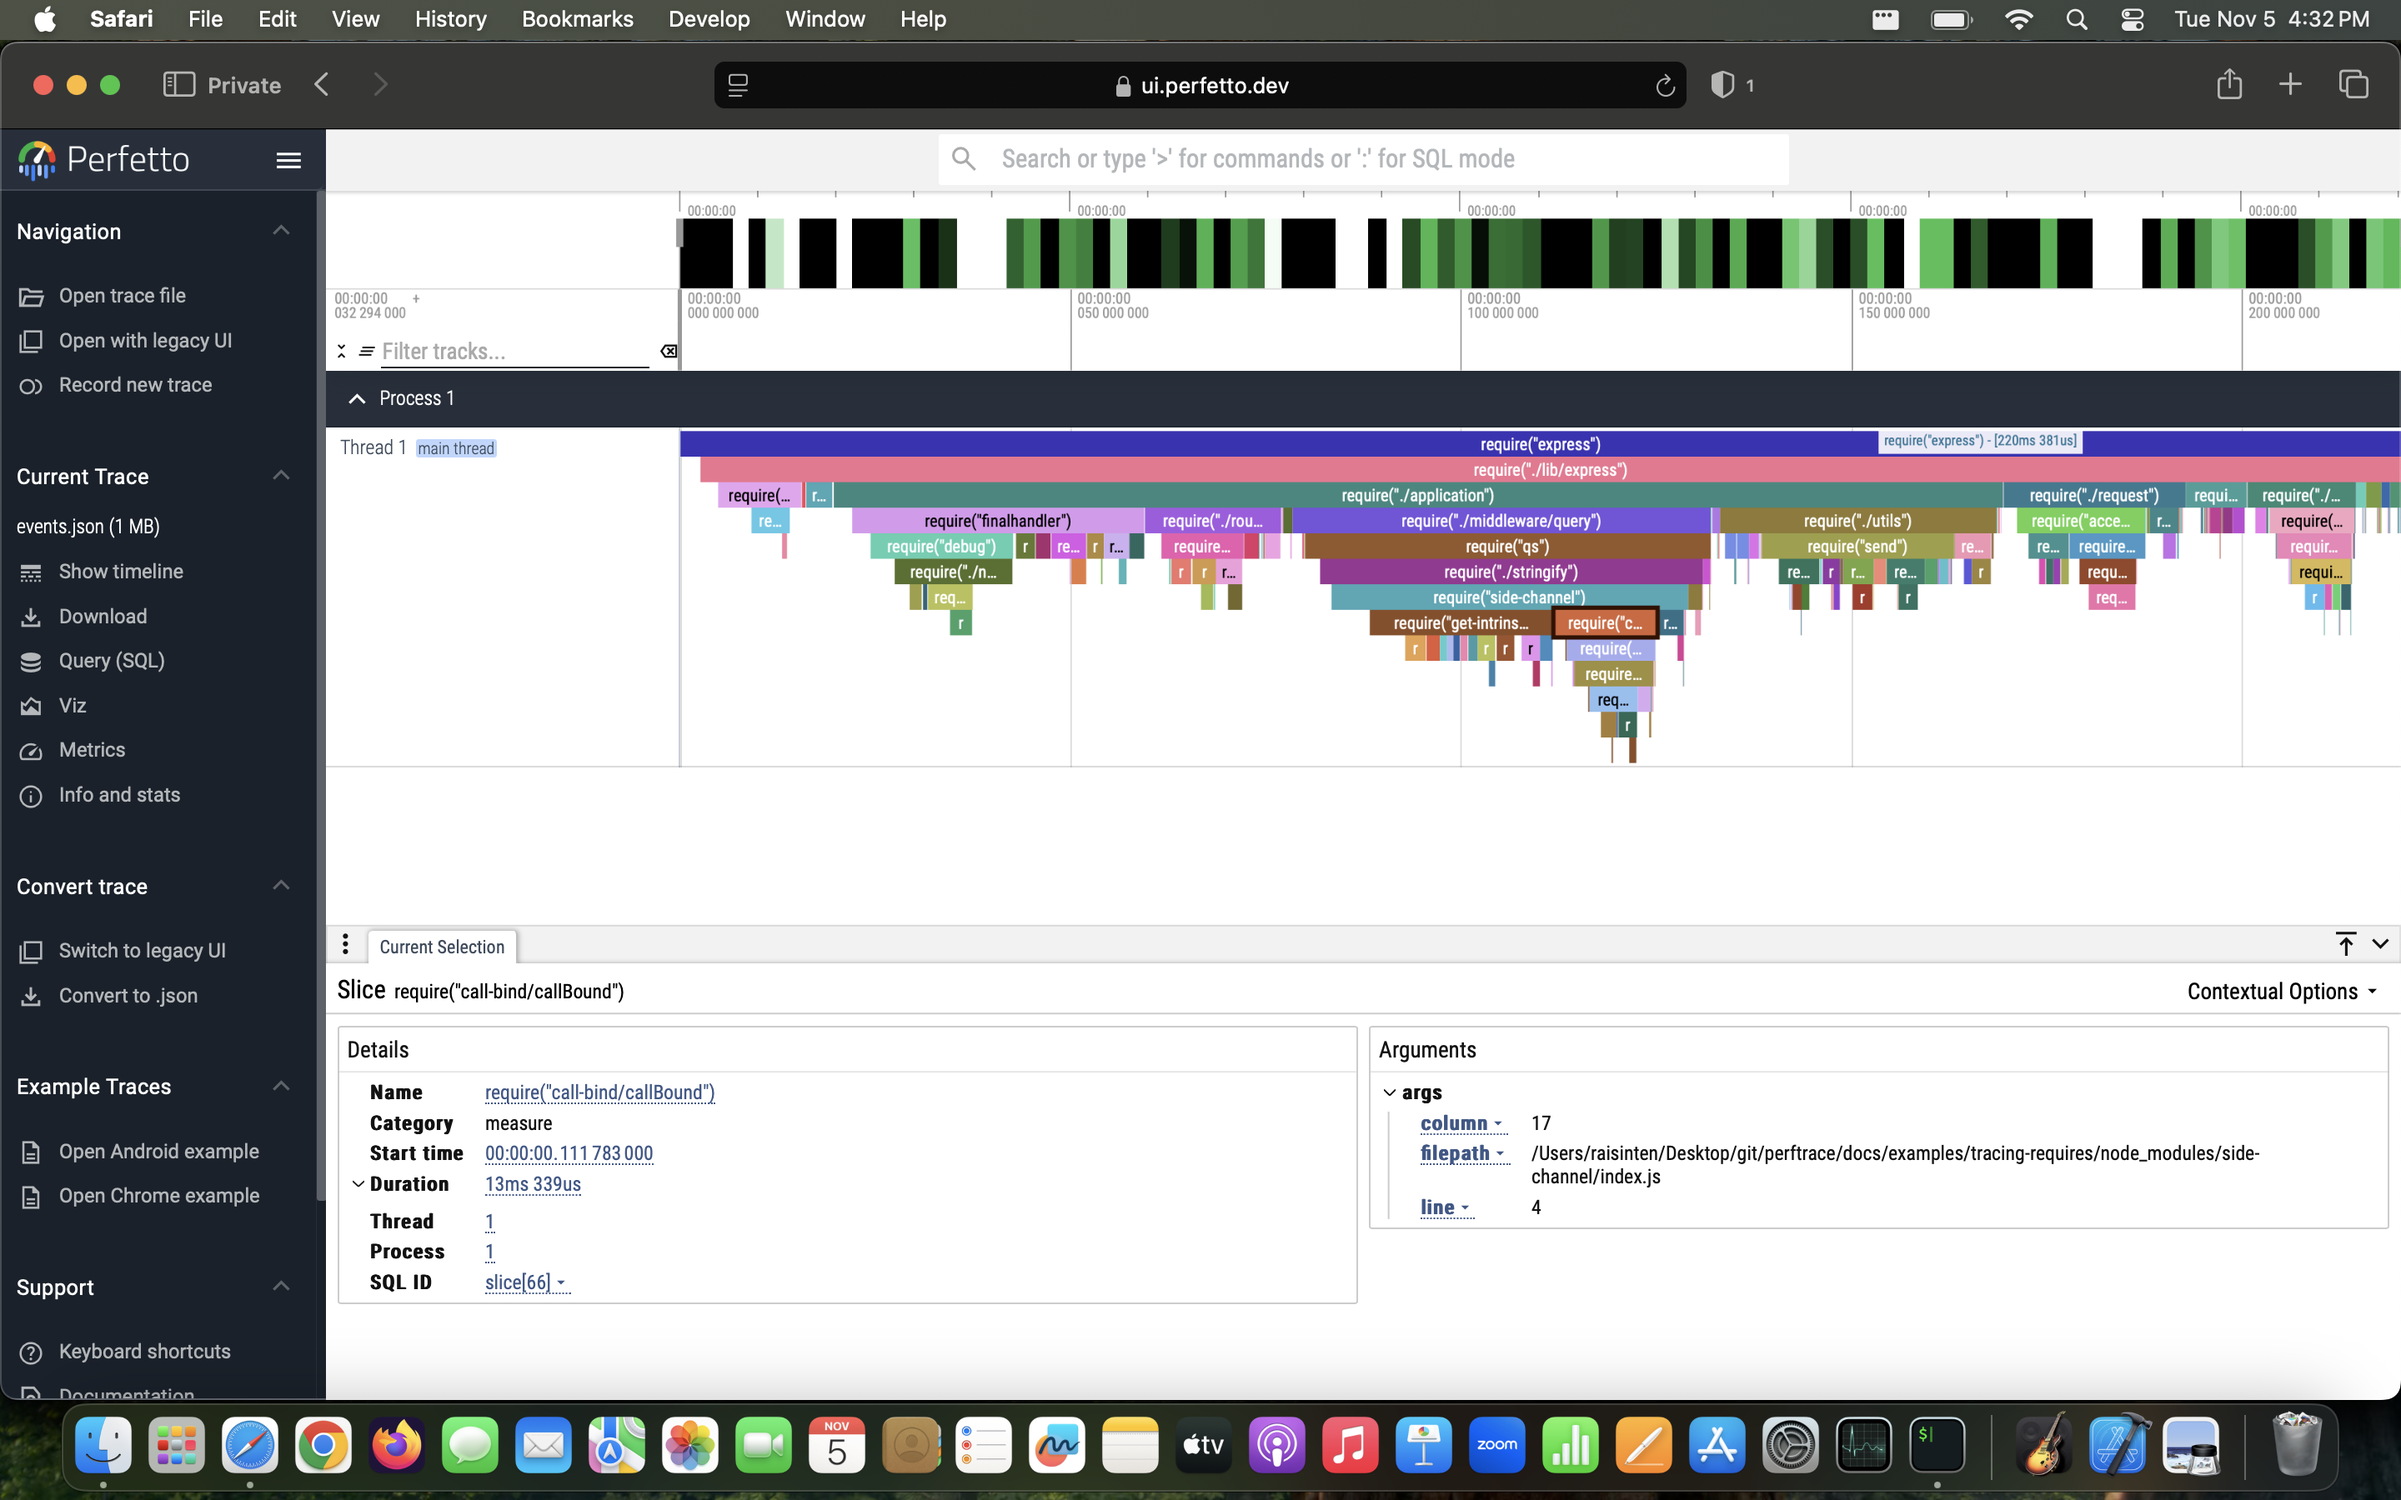
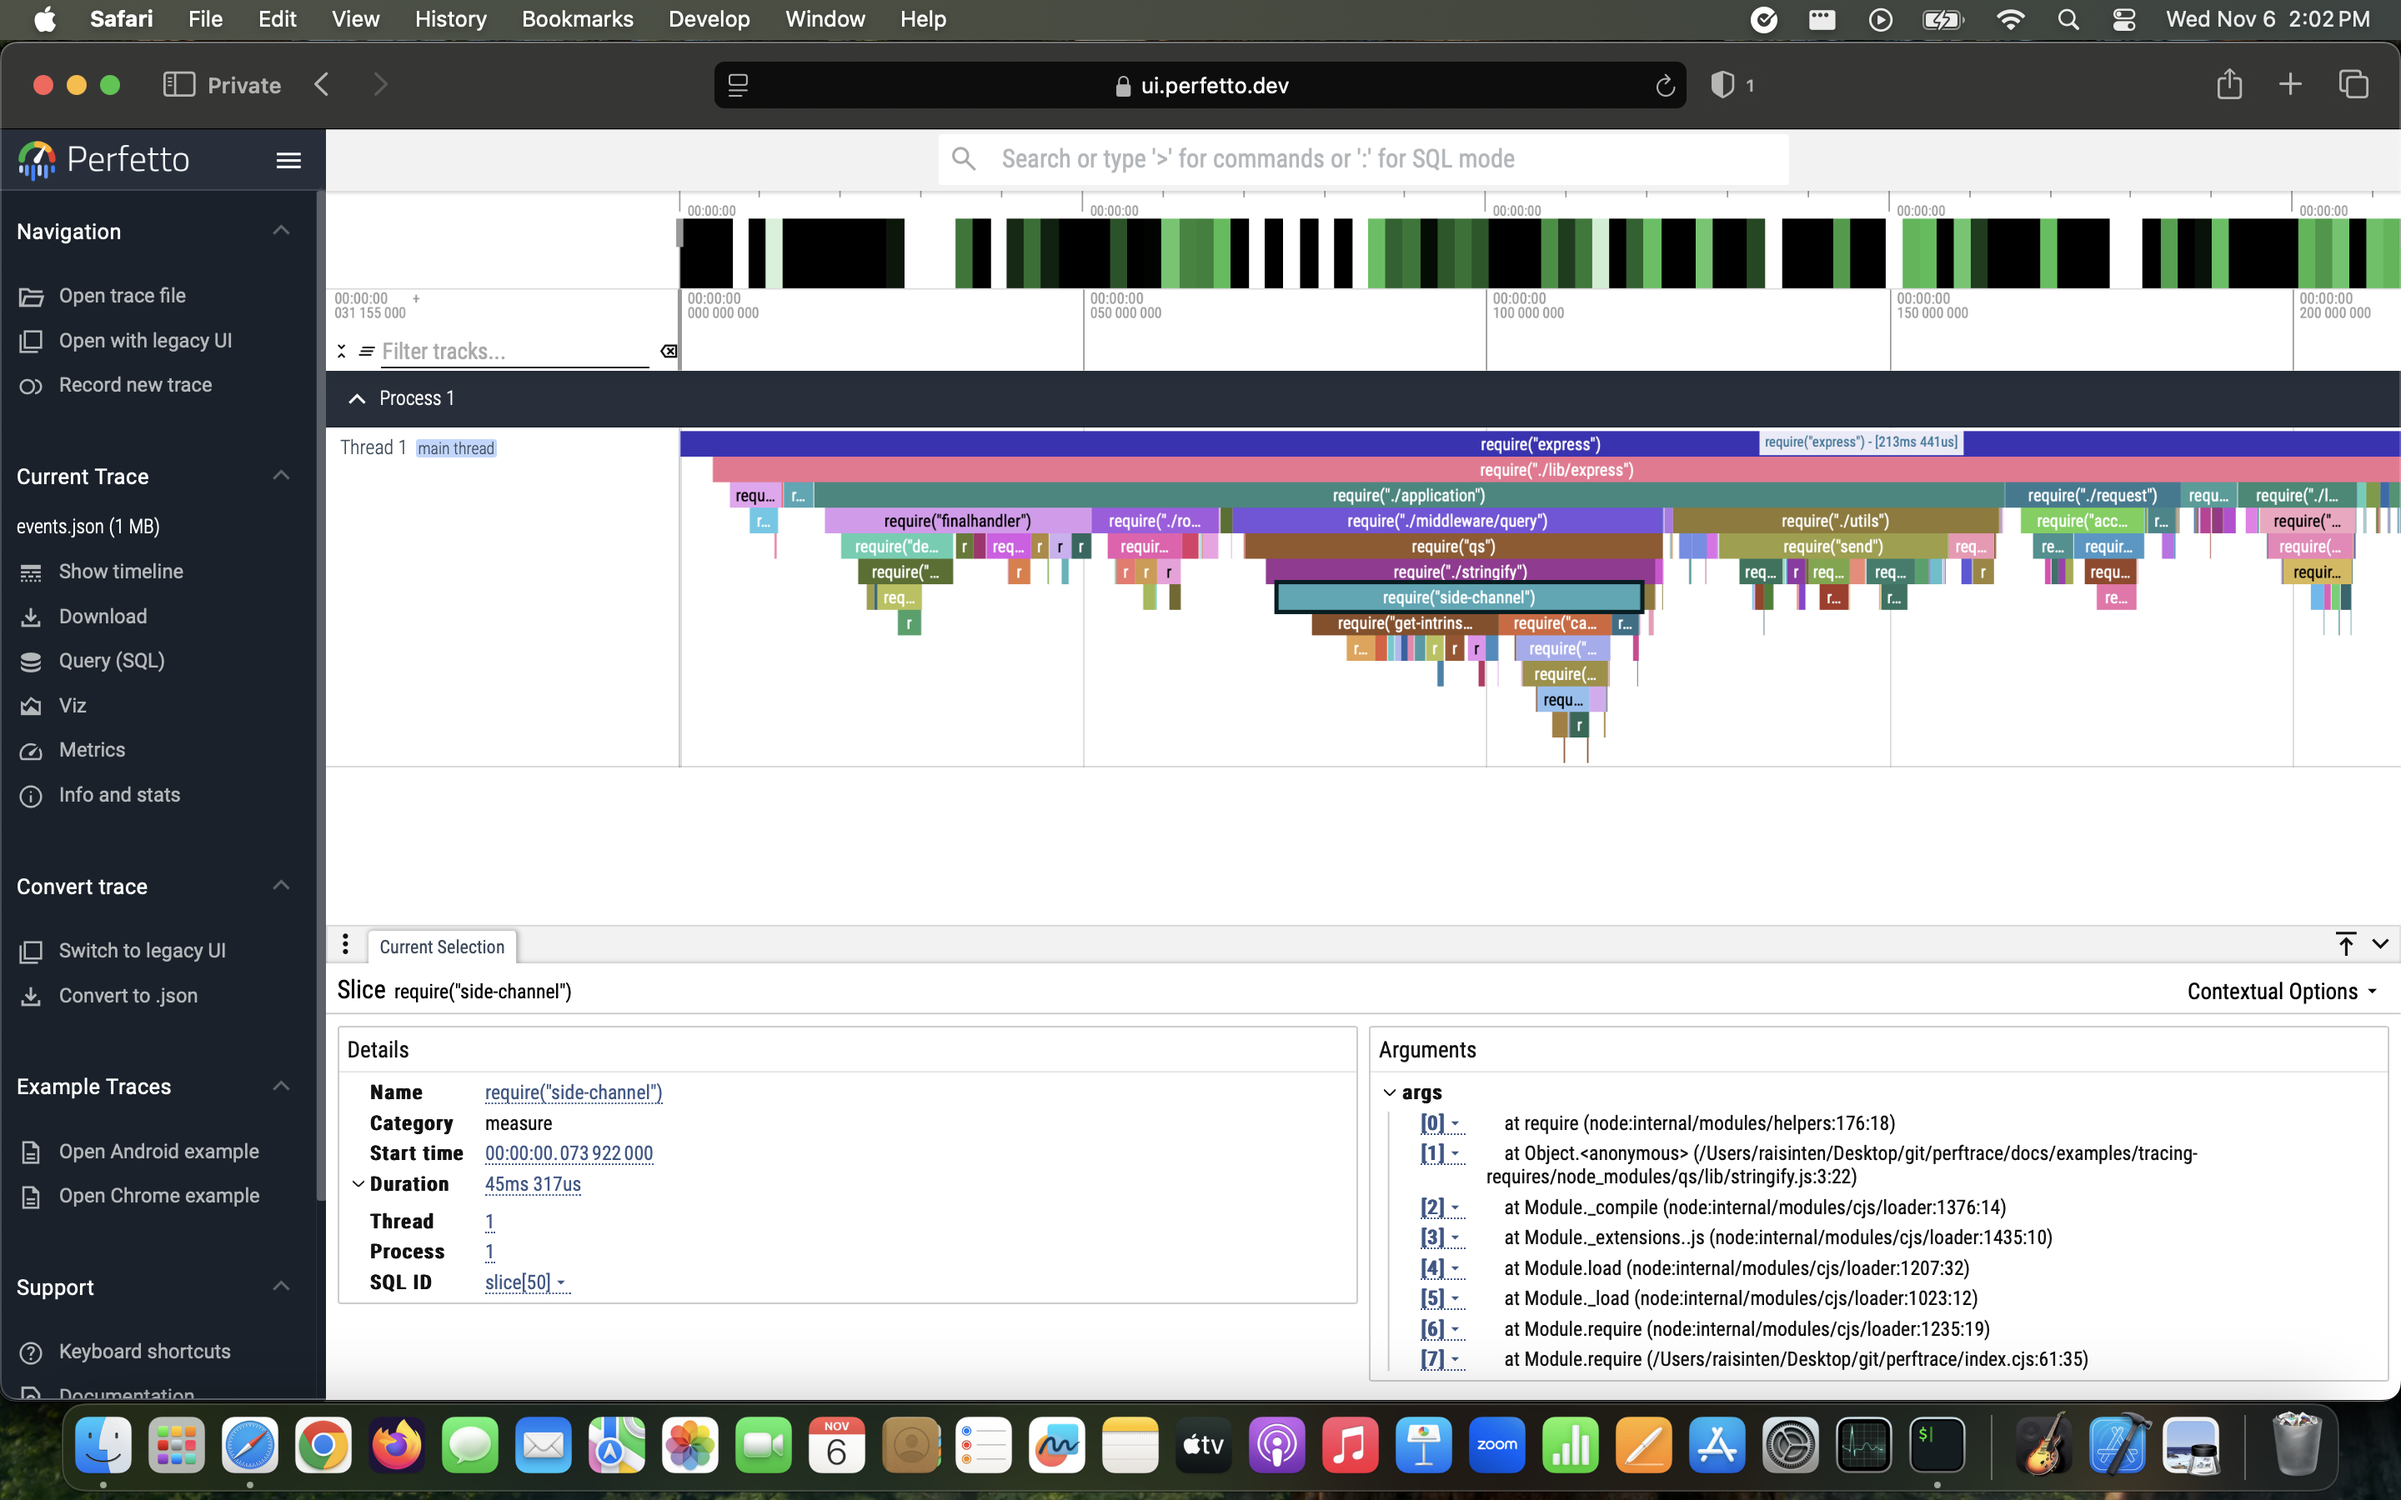
Extract relevant part of stack and make source-tracking optional

diff --git a/docs/examples/tracing-requires/index.js b/docs/examples/tracing-requires/index.js
@@ -9,7 +9,7 @@ process.on("beforeExit", () => {
   writeFileSync("events.json", JSON.stringify(events));
 });
 
-trackRequires(true);
+trackRequires(true, { trackSource: true });
 
 // Express Hello world example
 // Refs: https://expressjs.com/en/starter/hello-world.html

diff --git a/docs/api/README.md b/docs/api/README.md
@@ -35,6 +35,8 @@ Call `traceEvents.getEvents()` to get the PerformanceEntry objects in the [Trace
 ]
 ```
 
-## `trackRequires(bool)` (only available in [CommonJS](https://nodejs.org/api/modules.html#modules-commonjs-modules))
+## `trackRequires(switch, options)` (only available in [CommonJS](https://nodejs.org/api/modules.html#modules-commonjs-modules))
 
-Call `trackRequires(true)` to enable tracking `require()`s and call `trackRequires(false)` to disable tracking `require()`s.
+- `switch` (**bool**) - Call `trackRequires(true)` to enable tracking `require()`s and call `trackRequires(false)` to disable tracking `require()`s.
+- `options` (**object**)
+  - `trackSource` (**bool**) - Call `trackRequires(true, { trackSource: true })` to enable tracking `require()`s and also capture the source locations. This creates a throw-away error object and parses the `stack` property, so it introduces an overhead.

diff --git a/docs/examples/tracing-requires/README.md b/docs/examples/tracing-requires/README.md
@@ -8,7 +8,7 @@ Before the process exits, the `TraceEvents` object is destroyed and the trace ev
 
 https://github.com/RaisinTen/perftrace/blob/7cb1ce34d19ed8816e15094b3ef4fd03bb157c76/docs/examples/tracing-requires/index.js#L6-L10
 
-The `require()` calls can be tracked by passing `true` to `trackRequires()` like it is being done in:
+The `require()` calls can be tracked by calling `trackRequires()` like it is being done in:
 
 https://github.com/RaisinTen/perftrace/blob/7cb1ce34d19ed8816e15094b3ef4fd03bb157c76/docs/examples/tracing-requires/index.js#L12
 

diff --git a/README.md b/README.md
@@ -46,7 +46,7 @@ process.on("beforeExit", () => {
 });
 
 // Enables tracking require() calls.
-trackRequires(true);
+trackRequires(true, { trackSource: true });
 
 // The assert module takes milliseconds to load, so it would be distinctly
 // visible in the performance trace.
